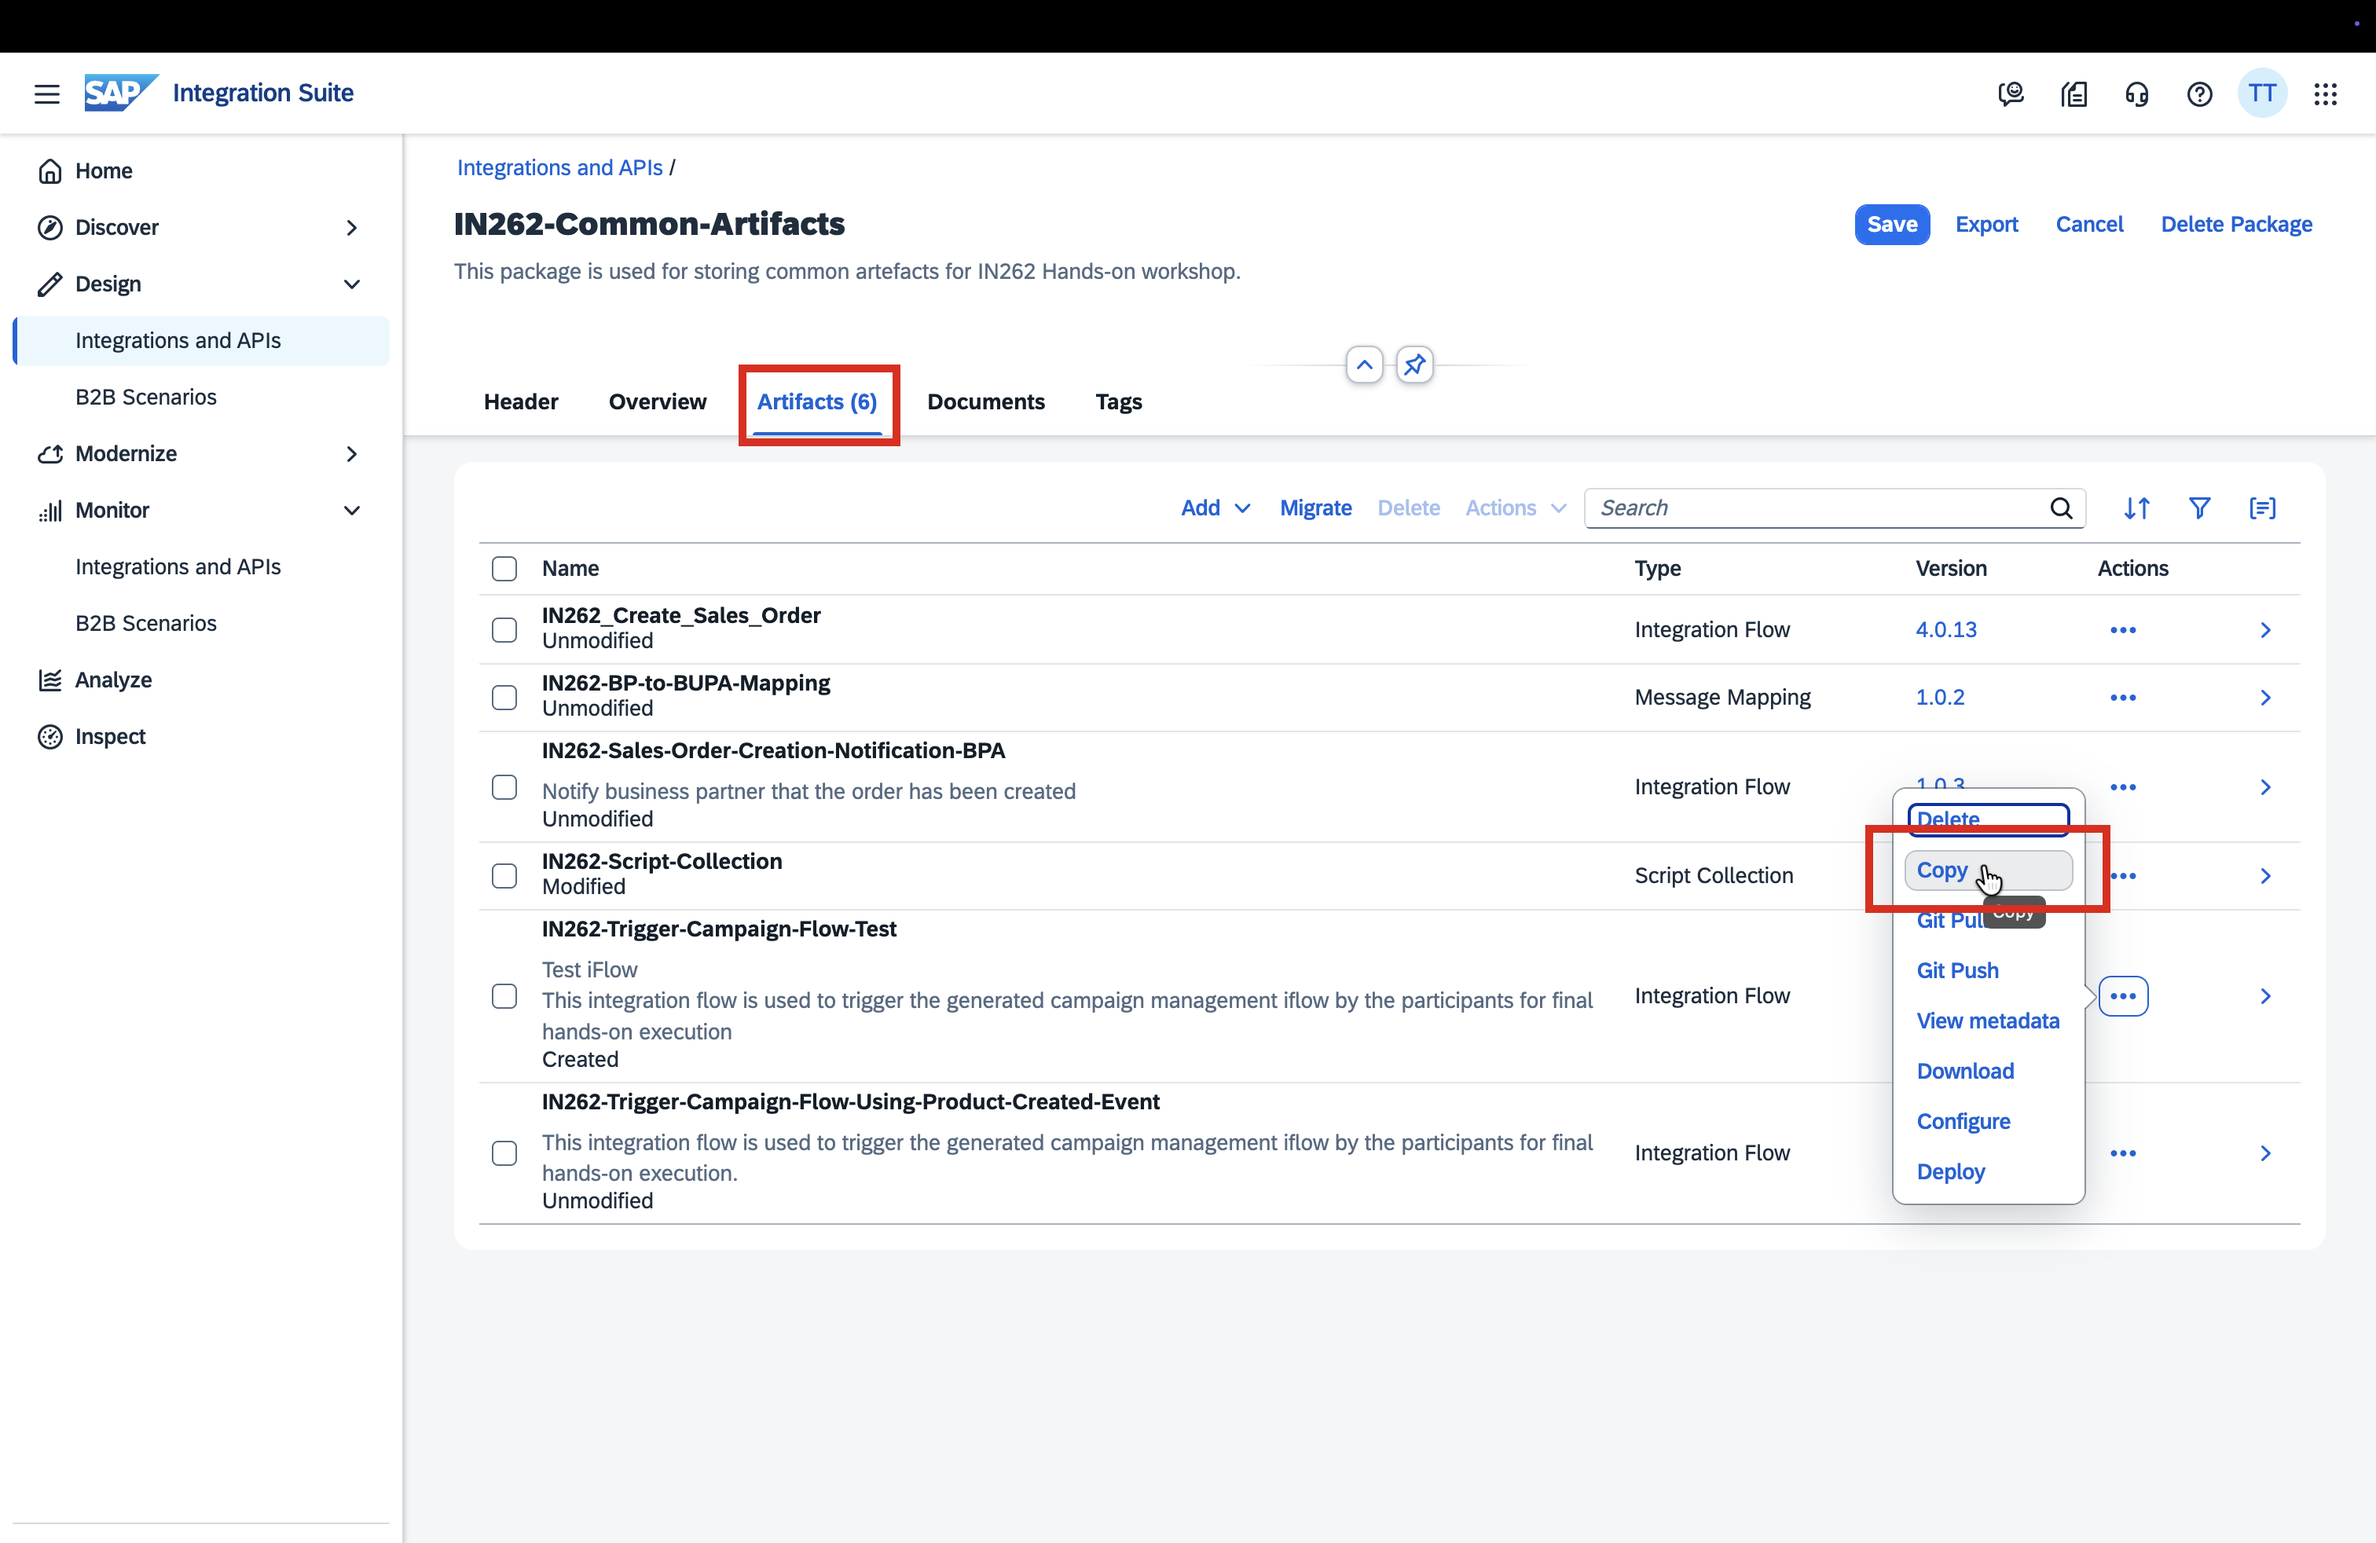
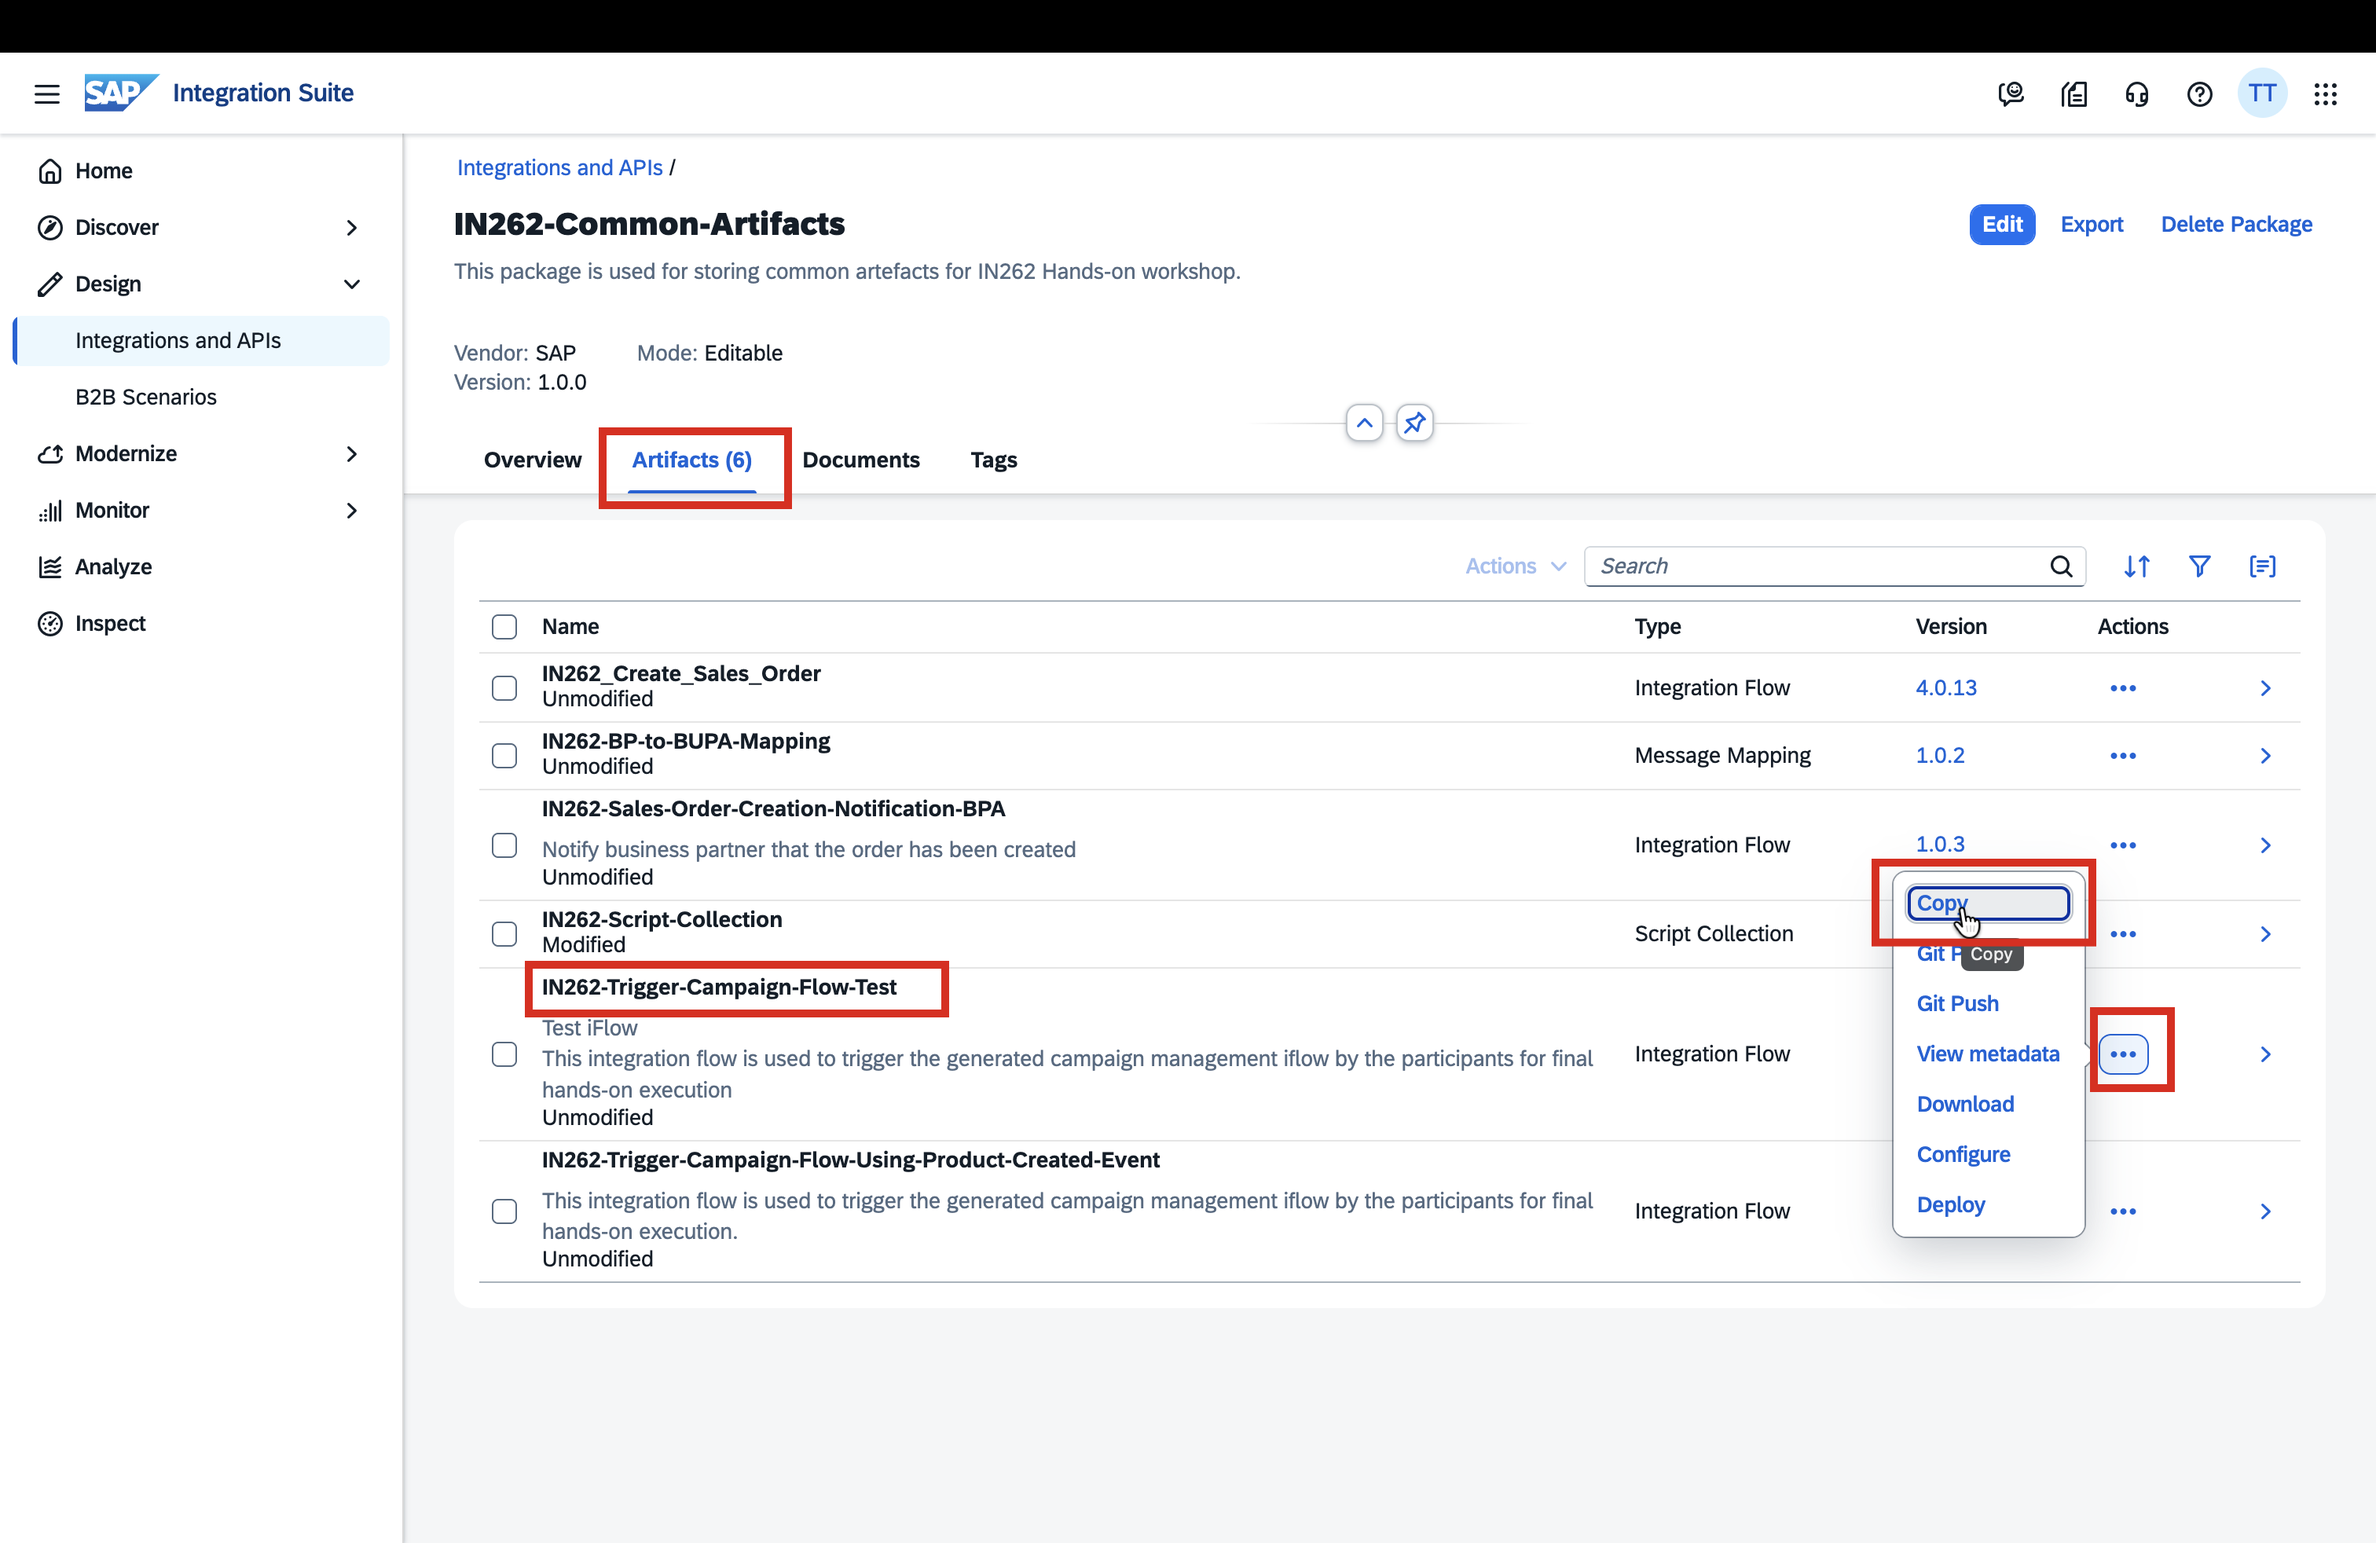
Update ex2 step flow: remove Edit button step, renumber steps and update screenshot
Removes the redundant 'Click Edit' step (step 3) and its screenshot, so the flow goes directly to the Artifacts tab. Steps 4-8 renumbered to 3-7. Updates ex2-1-3.png with revised screenshot.

diff --git a/exercises/ex2/README.md b/exercises/ex2/README.md
@@ -38,15 +38,12 @@ The test trigger iFlow fires your campaign flow on demand without waiting for a 
 
    ![IN262-Common-Artifacts highlighted in package list](images/ex2-1-1.png)
 
-3. Click **Edit** (top right)
 
-   ![IN262-Common-Artifacts overview — Edit button highlighted](images/ex2-1-2.png)
-
-4. Click the **Artifacts** tab — locate **`IN262-Trigger-Campaign-Flow-Test`** in the list and Click `...` → **Copy**
+3. Click the **Artifacts** tab — locate **`IN262-Trigger-Campaign-Flow-Test`** in the list and Click `...` → **Copy**
 
    ![Artifacts tab — IN262-Trigger-Campaign-Flow-Test listed, three-dot menu open, Copy highlighted](images/ex2-1-3.png)
 
-5. In the Copy dialog:
+4. In the Copy dialog:
    - Enter **Name:** `IN262-Trigger-Campaign-Flow-Test_IN262-0XX` 
 
 > [!NOTE]
@@ -56,17 +53,17 @@ The test trigger iFlow fires your campaign flow on demand without waiting for a 
 
    ![Copy dialog — name filled in, Select button highlighted](images/ex2-1-4.png)
 
-6. In the Package Selection dialog, choose **`IN262-0XX-Campaign-Management`** <mark> (select the package that you created with your participant number)</mark>
+5. In the Package Selection dialog, choose **`IN262-0XX-Campaign-Management`** <mark> (select the package that you created with your participant number)</mark>
 > [!NOTE]
 > Select the package which you created with your participant number XX 
 
    ![Package Selection dialog — IN262-0XX-Campaign-Management highlighted](images/ex2-1-5.png)
 
-7. Click **Copy**
+6. Click **Copy**
 
    ![Copy dialog — IN262-0XX-Campaign-Management selected, Copy button highlighted](images/ex2-1-6.png)
 
-8. Success toast confirms the copy — click **Navigate**
+7. Success toast confirms the copy — click **Navigate**
 
    ![Success toast — Navigate button highlighted](images/ex2-1-7.png)
 
